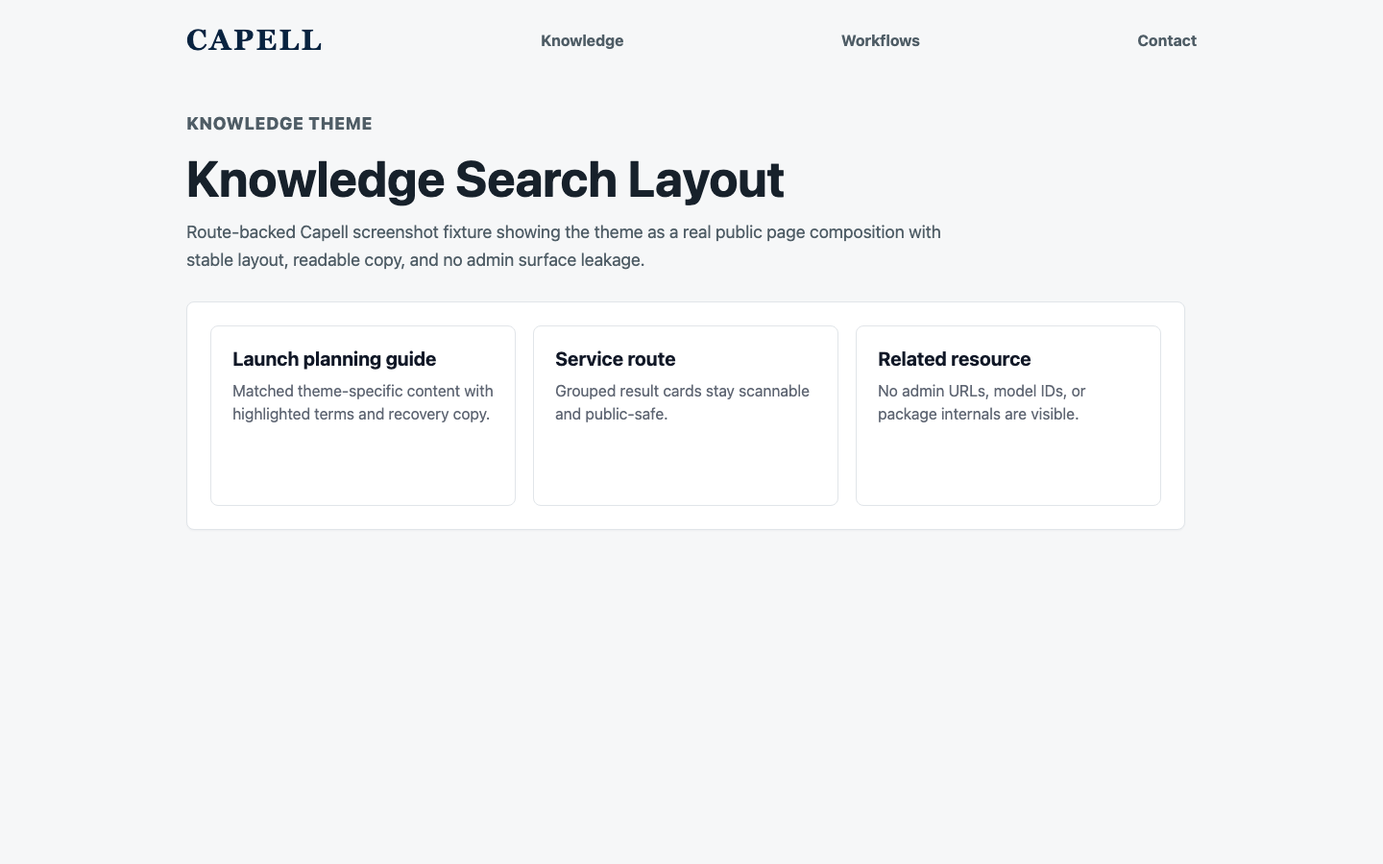
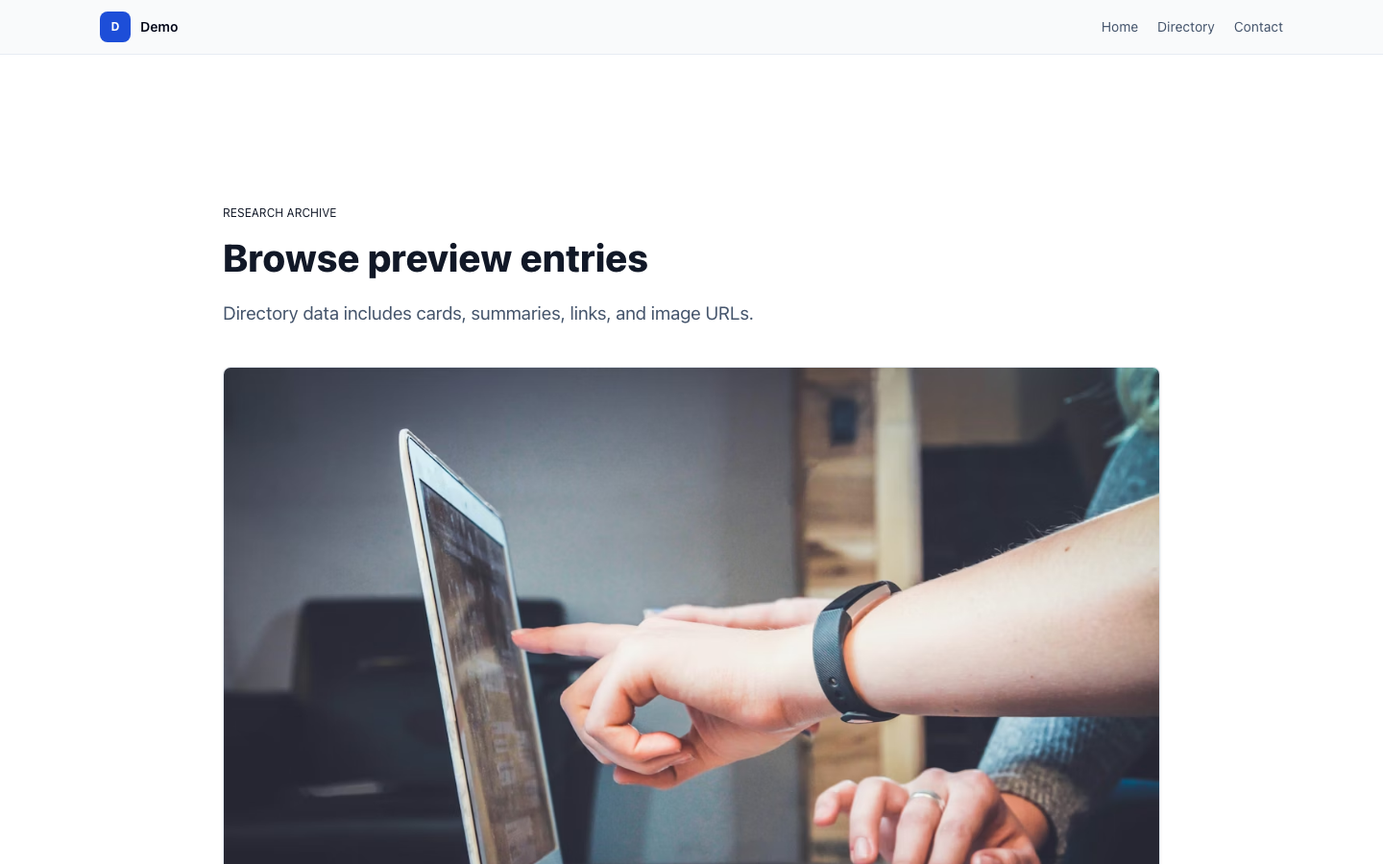
Scope agency screenshot styles

diff --git a/packages/theme-agency/resources/css/theme-agency.css b/packages/theme-agency/resources/css/theme-agency.css
@@ -1,5 +1,5 @@
 @layer components {
-    .site-theme-shell {
+    .agency-shell {
         --site-primary: var(--theme-primary, #ff5a7e);
         --site-accent: var(--theme-accent, #3b82f6);
         --site-surface: var(--theme-surface, #09090b);
@@ -26,17 +26,17 @@
         );
     }
 
-    .site-theme-shell section {
+    .agency-shell section {
         padding: clamp(4rem, 8vw, 8rem) 1.5rem;
     }
 
-    .site-theme-shell section > div {
+    .agency-shell section > div {
         max-width: 76rem;
         margin-inline: auto;
     }
 
-    .site-theme-shell h1,
-    .site-theme-shell h2 {
+    .agency-shell h1,
+    .agency-shell h2 {
         max-width: 12ch;
         color: var(--site-foreground);
         font-family: var(--theme-heading-font, inherit);
@@ -46,19 +46,19 @@
         letter-spacing: 0;
     }
 
-    .site-theme-shell p {
+    .agency-shell p {
         max-width: 42rem;
         color: var(--site-muted);
         font-size: 1.125rem;
         line-height: 1.8;
     }
 
-    .site-theme-shell a {
+    .agency-shell a {
         color: inherit;
     }
 
-    .site-theme-shell .theme-navigation,
-    .site-theme-shell .theme-hero {
+    .agency-shell .theme-navigation,
+    .agency-shell .theme-hero {
         background:
             radial-gradient(
                 circle at 72% 14%,
@@ -74,7 +74,7 @@
         color: #ffffff;
     }
 
-    .site-theme-shell .theme-navigation > div {
+    .agency-shell .theme-navigation > div {
         align-items: center;
         display: flex;
         justify-content: space-between;
@@ -84,16 +84,16 @@
         padding: 1.25rem 1.5rem;
     }
 
-    .site-theme-shell .theme-navigation a {
+    .agency-shell .theme-navigation a {
         text-decoration: none;
     }
 
-    .site-theme-shell .theme-navigation a:first-child {
+    .agency-shell .theme-navigation a:first-child {
         font-size: 1.25rem;
         font-weight: 900;
     }
 
-    .site-theme-shell .theme-navigation a:last-child {
+    .agency-shell .theme-navigation a:last-child {
         background: var(--site-primary);
         border-radius: 999px;
         color: #ffffff;
@@ -101,7 +101,7 @@
         padding: 0.65rem 1.2rem;
     }
 
-    .site-theme-shell .theme-hero > div {
+    .agency-shell .theme-hero > div {
         display: grid;
         gap: clamp(2rem, 5vw, 4rem);
         grid-template-columns: minmax(0, 0.9fr) minmax(22rem, 1.1fr);
@@ -109,17 +109,17 @@
         padding-block: clamp(4rem, 8vw, 7rem);
     }
 
-    .site-theme-shell .theme-hero h1 {
+    .agency-shell .theme-hero h1 {
         color: #ffffff;
         max-width: 10ch;
         text-shadow: 0 18px 60px rgba(0, 0, 0, 0.48);
     }
 
-    .site-theme-shell .theme-hero p {
+    .agency-shell .theme-hero p {
         color: rgba(255, 255, 255, 0.72);
     }
 
-    .site-theme-shell .theme-hero a {
+    .agency-shell .theme-hero a {
         border-radius: 999px;
         display: inline-flex;
         font-weight: 800;
@@ -131,34 +131,34 @@
         text-decoration: none;
     }
 
-    .site-theme-shell .theme-hero a:first-child {
+    .agency-shell .theme-hero a:first-child {
         background: var(--site-primary);
         color: #ffffff;
     }
 
-    .site-theme-shell .theme-hero a:not(:first-child) {
+    .agency-shell .theme-hero a:not(:first-child) {
         border: 1px solid rgba(255, 255, 255, 0.26);
         color: #ffffff;
     }
 
-    .site-theme-shell .theme-hero img {
+    .agency-shell .theme-hero img {
         display: block;
         min-height: 24rem;
         object-fit: cover;
         width: 100%;
     }
 
-    .site-theme-shell .theme-hero [aria-hidden='true'] span,
-    .site-theme-shell .theme-hero .site-brand-gradient {
+    .agency-shell .theme-hero [aria-hidden='true'] span,
+    .agency-shell .theme-hero .site-brand-gradient {
         box-shadow: 0 24px 80px rgba(0, 0, 0, 0.34);
     }
 
-    .site-theme-shell .theme-hero .grid {
+    .agency-shell .theme-hero .grid {
         display: grid;
         gap: 1rem;
     }
 
-    .site-theme-shell .theme-hero .grid-cols-3 {
+    .agency-shell .theme-hero .grid-cols-3 {
         grid-template-columns: repeat(3, minmax(0, 1fr));
     }
 
@@ -178,23 +178,23 @@
         transform: translateY(0);
     }
 
-    .site-theme-shell img,
-    .site-theme-shell section div:empty {
+    .agency-shell img,
+    .agency-shell section div:empty {
         border-radius: 1.5rem;
     }
 
-    .site-theme-shell :is(.theme-features, .theme-content-listing) article h3,
-    .site-theme-shell .theme-content-listing a h3 {
+    .agency-shell :is(.theme-features, .theme-content-listing) article h3,
+    .agency-shell .theme-content-listing a h3 {
         color: var(--site-card-ink);
     }
 
-    .site-theme-shell :is(.theme-features, .theme-content-listing) article p,
-    .site-theme-shell .theme-content-listing a p {
+    .agency-shell :is(.theme-features, .theme-content-listing) article p,
+    .agency-shell .theme-content-listing a p {
         color: var(--site-card-muted);
     }
 
     @media (max-width: 900px) {
-        .site-theme-shell .theme-hero > div {
+        .agency-shell .theme-hero > div {
             grid-template-columns: 1fr;
         }
     }

diff --git a/packages/theme-corporate/resources/css/theme-corporate.css b/packages/theme-corporate/resources/css/theme-corporate.css
@@ -44,14 +44,12 @@
         transform: translateY(0);
     }
 
-    @media (prefers-color-scheme: dark) {
-        .site-theme-shell {
-            background: #020617;
-            color: #f8fafc;
-        }
+    .dark .site-theme-shell {
+        background: #020617;
+        color: #f8fafc;
+    }
 
-        .site-theme-shell img {
-            background: #111827;
-        }
+    .dark .site-theme-shell img {
+        background: #111827;
     }
 }

diff --git a/packages/theme-agency/tests/Unit/AgencyThemeDefinitionTest.php b/packages/theme-agency/tests/Unit/AgencyThemeDefinitionTest.php
@@ -93,7 +93,7 @@ it('renders the page shell from brand surface and foreground tokens', function (
     expect($html)
         ->toContain('--theme-surface:#fafaf5')
         ->toContain('--theme-foreground:#1a1c19')
-        ->toContain('class="site-theme-shell min-h-screen antialiased"')
+        ->toContain('class="agency-shell site-theme-shell min-h-screen antialiased"')
         ->not->toContain('bg-zinc-950 text-zinc-950');
 });
 

diff --git a/packages/theme-agency/resources/views/page.blade.php b/packages/theme-agency/resources/views/page.blade.php
@@ -7,7 +7,7 @@
 
 <div
     style="{{ collect($brand->tokens())->map(fn (mixed $value, string $token): string => $token . ':' . $value)->implode(';') }}"
-    class="site-theme-shell min-h-screen antialiased"
+    class="agency-shell site-theme-shell min-h-screen antialiased"
 >
     {!! $content !!}
 </div>

diff --git a/packages/theme-corporate/docs/improvement-plan.md b/packages/theme-corporate/docs/improvement-plan.md
@@ -10,7 +10,7 @@
 
 - **2026-06-03:** Replaced marketplace plumbing copy with buyer-facing Theme Corporate positioning, promoted committed PNG screenshots into the marketplace manifest, and added real diagnostics for theme registration, required views, and marketplace media.
 - **2026-06-06:** Captured all 12 `docs/screenshots.json` route-backed targets through the Capell runner, then demoted the gallery after verifying the route renders the generic `theme-gallery` fixture rather than the package theme shell.
-- **2026-06-06:** Fixed the screenshot wrapper to seed/capture one theme package at a time, mark frontend theme entries anonymous, and suppress the Insights consent banner during screenshot runs; `/theme-corporate` now captures the real Corporate shell, but the first viewport needs contrast polish before marketplace promotion.
+- **2026-06-06:** Fixed the screenshot wrapper to seed/capture one theme package at a time, mark frontend theme entries anonymous, and suppress the Insights consent banner during screenshot runs; `/theme-corporate` now captures a readable real Corporate shell after dark-mode strategy alignment.
 - **2026-06-04:** Replaced placeholder hero stat labels with translated defaults plus optional data-driven stats, translated proof/gallery and FAQ labels, replaced the `corporate-proof` public selector with a generic selector, and added tests for those contracts.
 
 ## 2. Improvements (existing functionality)
@@ -20,7 +20,7 @@
 3. **Remaining proof/FAQ UI strings translated.** — Proof gallery/carousel aria labels, proof image fallback alt text, FAQ numbering, and content-listing variant labels now use `capell-theme-corporate::generic.*` keys. The proof carousel also uses a generic public selector instead of `corporate-proof`. — `resources/views/sections/proof.blade.php`, `resources/views/sections/content-listing.blade.php`, `resources/lang/en/generic.php` — **S**
 4. **Centralise the repeated `bg-[#f7f8f6]` surface literal into a token** — The off-white surface `#f7f8f6` is hard-coded in `page.blade.php`, `hero`, `content-listing`, `features` (alt), `cta`, plus the CSS `.site-theme-shell`. Presets expose `surfaceColor`/`foregroundColor` (used by `integrity`/`enterprise-trust`/`public-ledger`) but the Blade ignores them, so three of six presets can't actually recolour the page surface. Drive the shell background from `var(--theme-surface)` with `#f7f8f6` as fallback. — makes half the presets functional, not cosmetic — `resources/css/theme-corporate.css`, `resources/views/page.blade.php`, all sections — **M**
 5. **Honour `cardStyle`/`radius`/`cardDensity` preset values in the Blade** — Presets declare `cardStyle: bordered|subtle|elevated|…` and `radius: none|sm|md`, but every card hard-codes `border border-slate-200` and square/`rounded-[0.35rem]` corners. The preset switcher therefore only changes colours and fonts, not the "formal card structure" the descriptions promise. Map these tokens to class variants. — preset differentiation is currently illusory — `resources/views/sections/features.blade.php`, `proof.blade.php`, `content-listing.blade.php` — **L**
-6. **Dark mode uses `prefers-color-scheme`, not the app/document `dark` class** — The CSS dark override is `@media (prefers-color-scheme: dark)` while the Blade uses Tailwind `dark:` utilities (class strategy). On a host that toggles dark via a `.dark` class the CSS-layer colours (`.site-theme-shell`) and the utility colours will disagree. Align both on the same strategy. — visual correctness in dark mode — `resources/css/theme-corporate.css` (the `@media` block) — **S**
+6. **Dark-mode strategy aligned.** — The CSS dark override now keys off the app/document `.dark` class, matching the Blade's Tailwind `dark:` utilities instead of forcing dark colors through `prefers-color-scheme`. Light screenshot/browser contexts now keep the Corporate shell readable. — `resources/css/theme-corporate.css` — **S**
 
 ## 3. Missing Features (gaps)
 
@@ -40,7 +40,7 @@ Versus siblings (`theme-agency`, `theme-saas`, `theme-commerce`, `theme-healthca
 
 1. **Health check shipped.** — `ThemeCorporateHealthCheck` now probes Theme Studio registration, required Blade files, and marketplace screenshot paths, with tests for passing and failing states. Remaining opportunity: add a package-specific doctor command if direct console diagnostics become necessary. — `src/Health/ThemeCorporateHealthCheck.php`, `tests/Feature/ThemeCorporateHealthCheckTest.php`
 2. **Manifest is internally contradictory on commercial tier** — `product.tier: "free"`, `bundle: "foundation"`, `group: "Capell Foundation"`, and the unit test literally asserts _"defines the corporate free renderer contract"_ — yet `commercial` says `proposedLicense: "paid"`, `requestedCertification: "first-party"`, `supportPolicy: "priority"`, `privateDocsRequested: true`. A free foundation theme should not request paid licensing/priority support. Pick one model. — `capell.json` (`product` vs `commercial`)
-3. **Screenshot contract partially reopened.** — `docs/screenshots.json` declares 12 entries and every path exists in `docs/screenshots/`. The screenshot wrapper now reaches the real Corporate renderer and `corporate-homepage-layout.png` is route-backed, but the first viewport is too low-contrast/dark for buyer-facing marketplace media. `capell.json` still promotes only the package card until contrast is fixed and the remaining gallery is recaptured. — `capell.json`, `docs/screenshots.json`, `docs/screenshots/`
+3. **Screenshot contract partially reopened.** — `docs/screenshots.json` declares 12 entries and every path exists in `docs/screenshots/`. The screenshot wrapper now reaches the real Corporate renderer and `corporate-homepage-layout.png` is a readable route-backed capture. `capell.json` still promotes only the package card until the remaining gallery is recaptured and reviewed. — `capell.json`, `docs/screenshots.json`, `docs/screenshots/`
 4. **Preset count documentation aligned.** — README and overview now list all six shipped presets (`boardroom`, `civic`, `advisory`, `integrity`, `enterprise-trust`, `public-ledger`), matching `definition()` and the unit test. — `README.md`, `docs/overview.md`
 5. **Dual `extends` meaning documented.** — `ThemeDefinitionData(extends: 'default')` records runtime theme-key inheritance while manifest `"extends": "capell-app/foundation-theme"` records package inheritance; the service provider comment documents this distinction. — `src/CorporateThemeServiceProvider.php`, `capell.json`
 6. **Uncached renderer against a 20 ms budget** — `performance.cacheSafety.cacheable: false` with `frontendRenderBudgetMs: 20`. Every public request re-renders seven Blade sections (each with `collect()->map()->implode()` token work in the wrapper and per-card `str_pad`/`mb_substr` loops). No DB queries occur in the views (verified — no `DB::`, `::query(`, `find(`, `loadMissing(`; `PublicOutputSafetyTest` enforces this), so the budget is achievable, but document why caching is off and confirm it under load. — `capell.json` (`performance`)
@@ -79,7 +79,7 @@ Versus siblings (`theme-agency`, `theme-saas`, `theme-commerce`, `theme-healthca
 | Sync README/overview preset list to the six shipped presets                         | Done   | S      | Med    | §4.4                                                                                                                                                   |
 | Extract proof carousel/lightbox JS into a bundled, idempotent asset                 | Next   | M      | Med    | §2.2                                                                                                                                                   |
 | Drive shell surface + card style/radius from preset tokens                          | Next   | L      | High   | §2.4, §2.5                                                                                                                                             |
-| Align dark-mode strategy (class vs `prefers-color-scheme`)                          | Next   | S      | Med    | §2.6                                                                                                                                                   |
+| Align dark-mode strategy (class vs `prefers-color-scheme`)                          | Done   | S      | Med    | §2.6 — Done 2026-06-06: CSS now keys dark shell/image colors off `.dark`, matching the Blade strategy.                                                 |
 | Add variant-matrix + section render tests (content-listing etc.)                    | Next   | M      | Med    | §4.7                                                                                                                                                   |
 | Add a corporate-only section: multi-location/contact OR case study                  | Next   | L      | High   | §3                                                                                                                                                     |
 | Add investor/press + careers patterns                                               | Later  | L      | Med    | §3                                                                                                                                                     |

diff --git a/docs/improvement-plan-status.md b/docs/improvement-plan-status.md
@@ -9,7 +9,7 @@ The current repository contains 56 package improvement plans. Their roadmap rows
 | Bucket | Rows |
 | ------ | ---: |
 | Now    | 0 |
-| Next   | 205 |
+| Next   | 204 |
 | Later  | 160 |
 
 The work is not complete until every package plan has been reviewed against current code, required features are implemented or intentionally deferred, new behavior is documented, and focused verification passes for each changed package.
@@ -75,7 +75,7 @@ No package should be marked `Complete` from commit history alone. Completion req
 | tags | 0 | 0 | 4 | Now/Next closed | Current follow-up wires and documents the `workspace_id` ownership boundary: Tags owns taxonomy workspace storage on `tags`/`taggables`, exposes the column on both models, and documents Publishing Studio as the lifecycle owner. Prior slices added `TagModelRegistrar::registerTaggable()`, rewired Blog tag relations, honored public tag status, declared invalidation metadata, and reconciled marketplace copy. Continue with merge/dedupe, tag-cloud/related helpers, first-class tag landing pages, slug redirects, and completion review. |
 | theme-agency | 0 | 6 | 3 | Route capture fixed; gallery polish open | Current follow-up fixes the screenshot wrapper so selected theme demos seed and capture one package at a time, marks frontend entries anonymous, disables the Insights consent banner for screenshot runs, rebuilds package CSS into the runner app, and captures a styled `/theme-agency` homepage through the real Agency renderer. `capell.json` still promotes only the package card until the remaining route-backed gallery is captured and visually reviewed. Continue with full Agency renderer captures, navigation/proof a11y, and richer agency-specific renderers. |
 | theme-commerce | 0 | 5 | 4 | Route capture fixed; gallery polish open | Current follow-up fixes the screenshot wrapper so selected theme demos seed and capture one package at a time, marks frontend entries anonymous, disables the Insights consent banner for screenshot runs, and captures a styled `/theme-commerce` homepage through the real Commerce renderer. `capell.json` still promotes only the package card until the full route-backed gallery is captured and reviewed for nav spacing/content depth. Continue with full Commerce renderer captures, token replacement, PDP/cart/promo/review surfaces, LCP hints, and broader section render tests. |
-| theme-corporate | 0 | 6 | 3 | Route capture fixed; contrast polish open | Current follow-up fixes the screenshot wrapper so selected theme demos seed and capture one package at a time, marks frontend entries anonymous, disables the Insights consent banner for screenshot runs, and captures `/theme-corporate` through the real Corporate renderer. Marketplace promotion remains blocked because the first viewport is styled but too low-contrast/dark for buyer-facing media. Continue with Corporate contrast/token work, full renderer captures, JS extraction, and corporate-specific sections. |
+| theme-corporate | 0 | 5 | 3 | Route capture fixed; dark strategy closed | Current follow-up fixes the screenshot wrapper so selected theme demos seed and capture one package at a time, marks frontend entries anonymous, disables the Insights consent banner for screenshot runs, captures a readable `/theme-corporate` homepage through the real Corporate renderer, and aligns Corporate CSS dark-mode behavior with the `.dark` class strategy used by the Blade. Continue with full renderer captures, shell/card token work, JS extraction, and corporate-specific sections. |
 | theme-education | 0 | 7 | 2 | Route capture fixed; gallery polish open | Current follow-up fixes the screenshot wrapper so selected theme demos seed and capture one package at a time, marks frontend entries anonymous, disables the Insights consent banner for screenshot runs, and captures a styled `/theme-education` homepage through the real Education renderer. `capell.json` still promotes only the package card until the full route-backed gallery is captured and reviewed. Continue with full Education renderer captures, data-driven course/events content, token colours, WCAG, and conversion sections. |
 | theme-healthcare | 0 | 6 | 5 | Styled frontend screenshots promoted | Current follow-up demotes the older generic `theme-gallery` PNGs, fixes the package screenshot wrapper so full runs inject selected package CSS, rebuild before package demo commands, then capture seeded routes with `--skip-build`, and promotes five styled route-backed Healthcare frontend PNGs into `capell.json`. The generic frontend entry remains unpromoted until consent-banner timing is cleaned up, and admin/signed-preview entries remain optional until real Theme Studio fixtures exist. Continue with booking/Form Builder integration, token colours, inline event script extraction, empty states, locations detail, WCAG contrast, clinical conversion sections, and remaining screenshot polish. |
 | theme-knowledge | 0 | 2 | 1 | Styled route capture needs content polish | Current follow-up demotes the 9 promoted marketplace PNGs because they were captured from the generic Capell runner `theme-gallery` route rather than the actual Theme Knowledge package shell, then adds package-owned CSS fallbacks so seeded anonymous `/theme-knowledge` captures render the dark `.knowledge-shell` through the Capell runner. The shared screenshot wrapper now disables the Insights consent banner during captures, so the remaining blocker is buyer-facing content strength on the homepage/inner-route captures. Continue by capturing/promoting real light/dark Theme Knowledge PNGs before render-budget coverage and completion review. |

diff --git a/improvement-plan-status.md b/improvement-plan-status.md
@@ -9,7 +9,7 @@ The current repository contains 56 package improvement plans. Their roadmap rows
 | Bucket | Rows |
 | ------ | ---: |
 | Now    | 0 |
-| Next   | 205 |
+| Next   | 204 |
 | Later  | 160 |
 
 The work is not complete until every package plan has been reviewed against current code, required features are implemented or intentionally deferred, new behavior is documented, and focused verification passes for each changed package.
@@ -75,7 +75,7 @@ No package should be marked `Complete` from commit history alone. Completion req
 | tags | 0 | 0 | 4 | Now/Next closed | Current follow-up wires and documents the `workspace_id` ownership boundary: Tags owns taxonomy workspace storage on `tags`/`taggables`, exposes the column on both models, and documents Publishing Studio as the lifecycle owner. Prior slices added `TagModelRegistrar::registerTaggable()`, rewired Blog tag relations, honored public tag status, declared invalidation metadata, and reconciled marketplace copy. Continue with merge/dedupe, tag-cloud/related helpers, first-class tag landing pages, slug redirects, and completion review. |
 | theme-agency | 0 | 6 | 3 | Route capture fixed; gallery polish open | Current follow-up fixes the screenshot wrapper so selected theme demos seed and capture one package at a time, marks frontend entries anonymous, disables the Insights consent banner for screenshot runs, rebuilds package CSS into the runner app, and captures a styled `/theme-agency` homepage through the real Agency renderer. `capell.json` still promotes only the package card until the remaining route-backed gallery is captured and visually reviewed. Continue with full Agency renderer captures, navigation/proof a11y, and richer agency-specific renderers. |
 | theme-commerce | 0 | 5 | 4 | Route capture fixed; gallery polish open | Current follow-up fixes the screenshot wrapper so selected theme demos seed and capture one package at a time, marks frontend entries anonymous, disables the Insights consent banner for screenshot runs, and captures a styled `/theme-commerce` homepage through the real Commerce renderer. `capell.json` still promotes only the package card until the full route-backed gallery is captured and reviewed for nav spacing/content depth. Continue with full Commerce renderer captures, token replacement, PDP/cart/promo/review surfaces, LCP hints, and broader section render tests. |
-| theme-corporate | 0 | 6 | 3 | Route capture fixed; contrast polish open | Current follow-up fixes the screenshot wrapper so selected theme demos seed and capture one package at a time, marks frontend entries anonymous, disables the Insights consent banner for screenshot runs, and captures `/theme-corporate` through the real Corporate renderer. Marketplace promotion remains blocked because the first viewport is styled but too low-contrast/dark for buyer-facing media. Continue with Corporate contrast/token work, full renderer captures, JS extraction, and corporate-specific sections. |
+| theme-corporate | 0 | 5 | 3 | Route capture fixed; dark strategy closed | Current follow-up fixes the screenshot wrapper so selected theme demos seed and capture one package at a time, marks frontend entries anonymous, disables the Insights consent banner for screenshot runs, captures a readable `/theme-corporate` homepage through the real Corporate renderer, and aligns Corporate CSS dark-mode behavior with the `.dark` class strategy used by the Blade. Continue with full renderer captures, shell/card token work, JS extraction, and corporate-specific sections. |
 | theme-education | 0 | 7 | 2 | Route capture fixed; gallery polish open | Current follow-up fixes the screenshot wrapper so selected theme demos seed and capture one package at a time, marks frontend entries anonymous, disables the Insights consent banner for screenshot runs, and captures a styled `/theme-education` homepage through the real Education renderer. `capell.json` still promotes only the package card until the full route-backed gallery is captured and reviewed. Continue with full Education renderer captures, data-driven course/events content, token colours, WCAG, and conversion sections. |
 | theme-healthcare | 0 | 6 | 5 | Styled frontend screenshots promoted | Current follow-up demotes the older generic `theme-gallery` PNGs, fixes the package screenshot wrapper so full runs inject selected package CSS, rebuild before package demo commands, then capture seeded routes with `--skip-build`, and promotes five styled route-backed Healthcare frontend PNGs into `capell.json`. The generic frontend entry remains unpromoted until consent-banner timing is cleaned up, and admin/signed-preview entries remain optional until real Theme Studio fixtures exist. Continue with booking/Form Builder integration, token colours, inline event script extraction, empty states, locations detail, WCAG contrast, clinical conversion sections, and remaining screenshot polish. |
 | theme-knowledge | 0 | 2 | 1 | Styled route capture needs content polish | Current follow-up demotes the 9 promoted marketplace PNGs because they were captured from the generic Capell runner `theme-gallery` route rather than the actual Theme Knowledge package shell, then adds package-owned CSS fallbacks so seeded anonymous `/theme-knowledge` captures render the dark `.knowledge-shell` through the Capell runner. The shared screenshot wrapper now disables the Insights consent banner during captures, so the remaining blocker is buyer-facing content strength on the homepage/inner-route captures. Continue by capturing/promoting real light/dark Theme Knowledge PNGs before render-budget coverage and completion review. |
